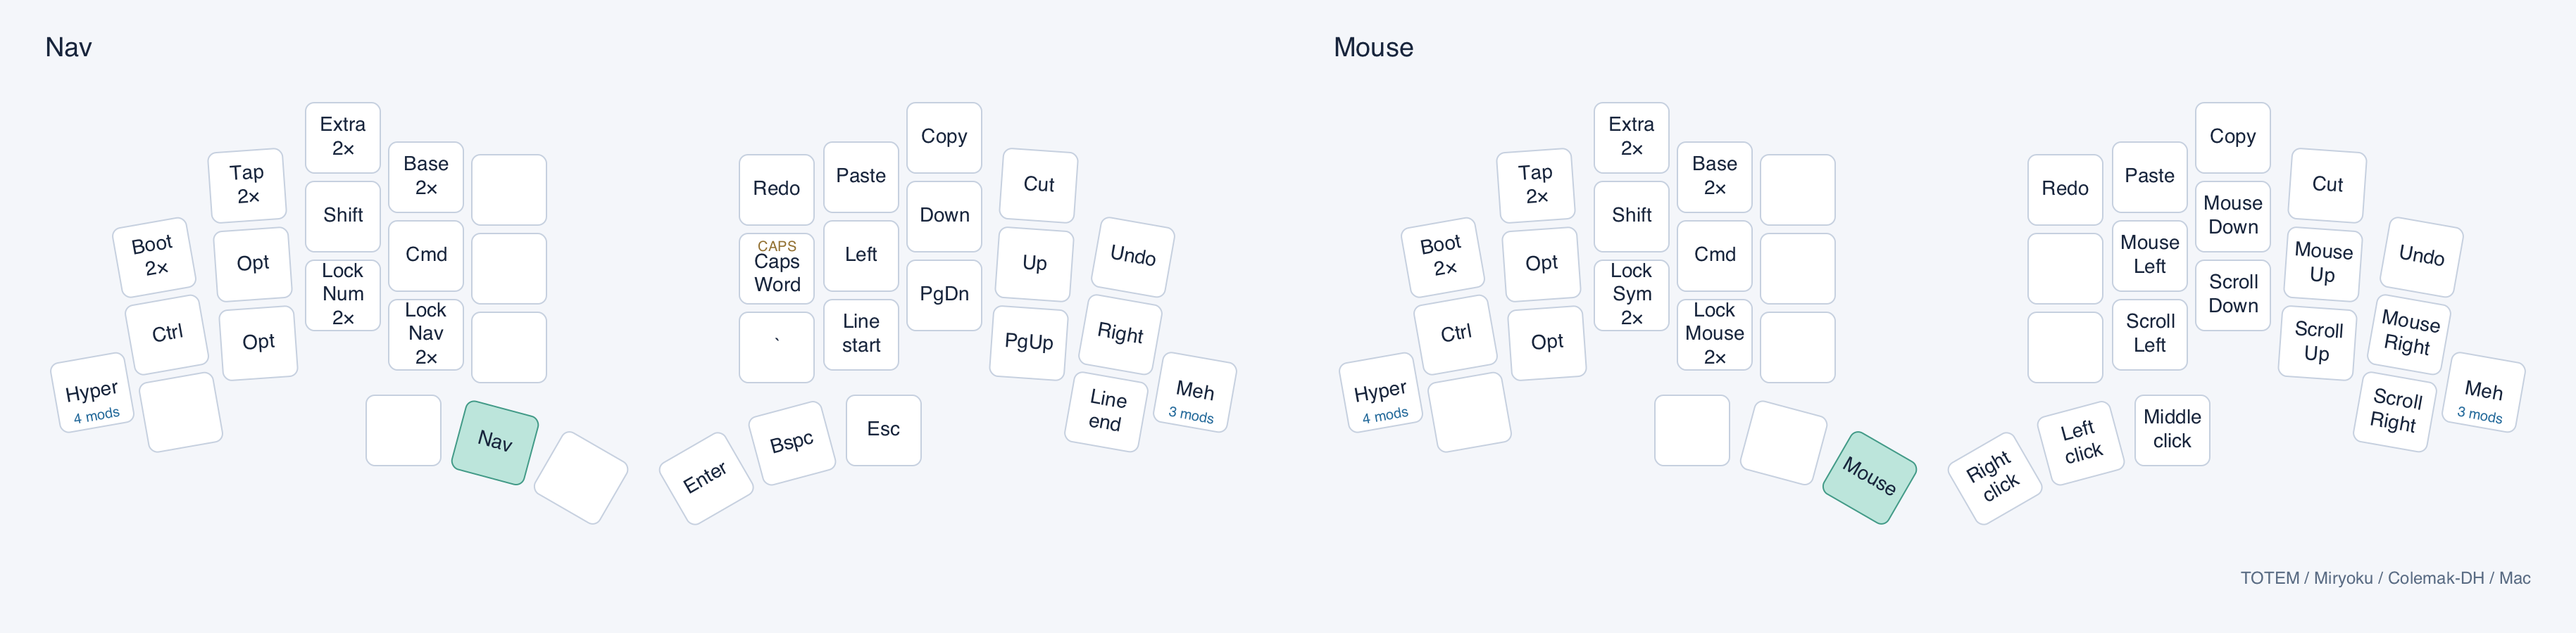
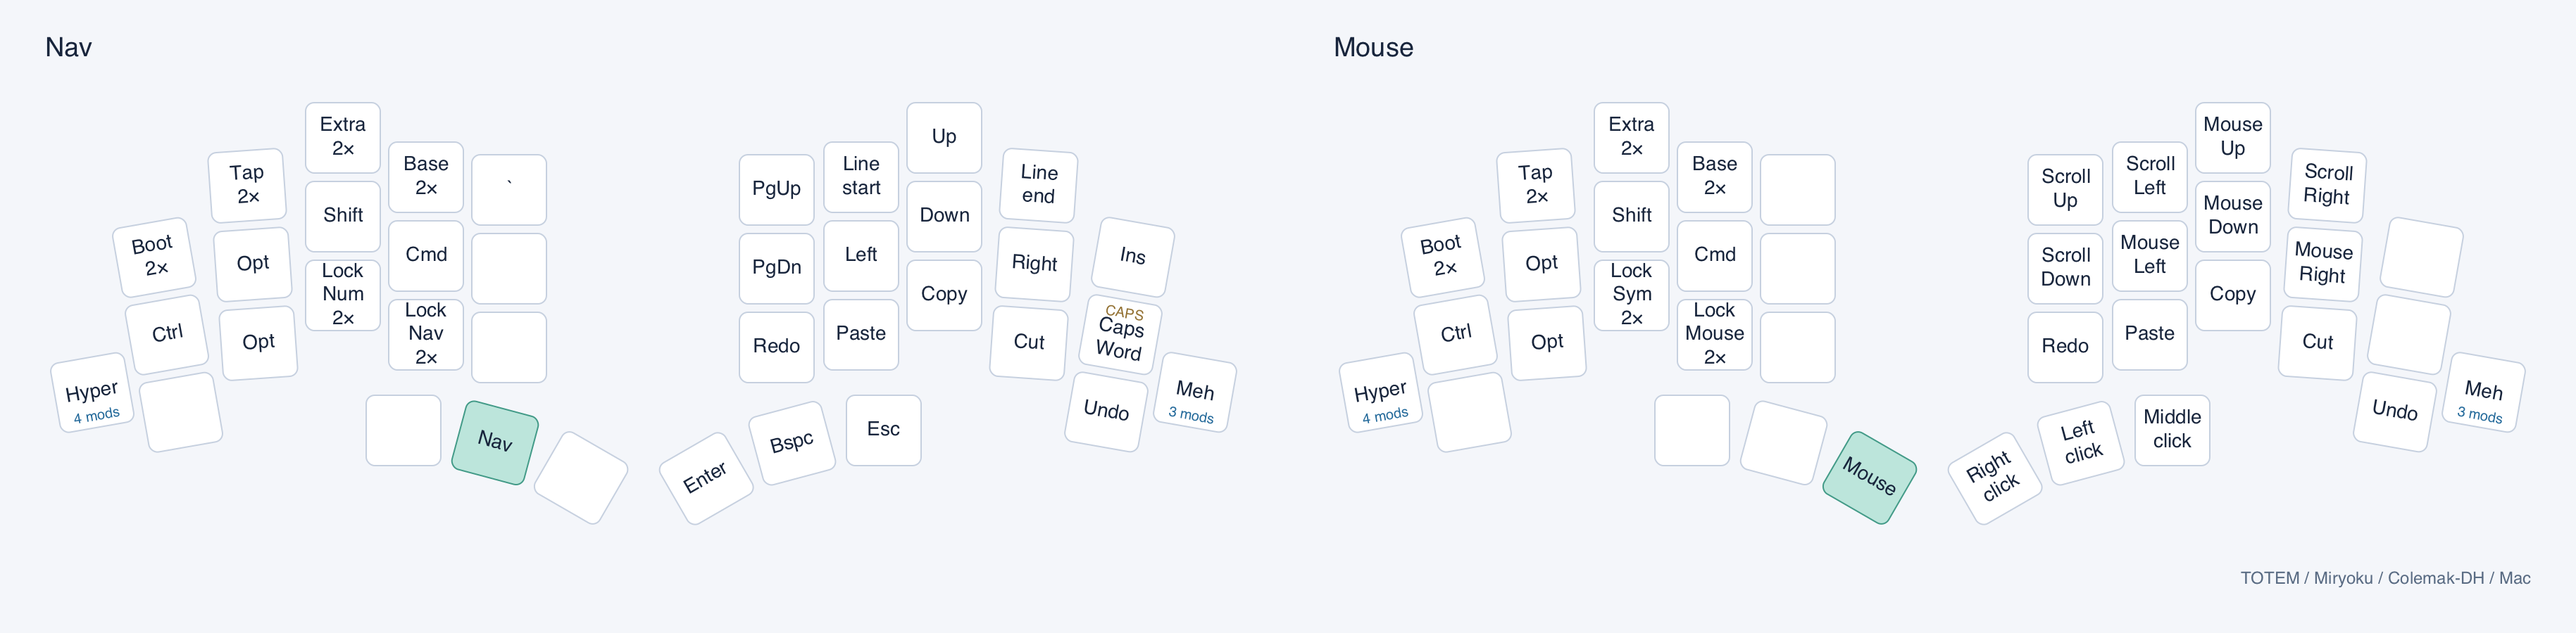
Use inverted-T navigation layout

diff --git a/config/miryoku/custom_config.h b/config/miryoku/custom_config.h
@@ -1,5 +1,6 @@
 // Personal Miryoku Totem adjustments. Core ordering follows Miryoku.
 #define MIRYOKU_CLIPBOARD_MAC
+#define MIRYOKU_NAV_INVERTEDT
 #define MIRYOKU_KLUDGE_DOUBLETAPBOOT
 
 // Colemak-DH, with Ctrl / Option / Shift / Cmd from outside to inside.
@@ -22,21 +23,24 @@ U_NP, U_NP, U_LT(U_MEDIA,ESC), U_LT(U_NAV,SPACE), U_LT(U_MOUSE,TAB), U_LT(U_SYM,
 &kp Z, &kp X, &kp C, &kp D, &kp V, &kp K, &kp H, &kp COMMA, &kp DOT, &kp SLASH, \
 U_NP, U_NP, &kp ESC, &kp SPACE, &kp TAB, &kp RET, &kp BSPC, &kp ESC, U_NP, U_NP
 
+// Inverted-T, with Page Up/Down on the inner index column instead of pinky.
+// Keep the existing Mac line navigation and a Nav-layer backtick.
 #define MIRYOKU_LAYER_NAV \
-U_BOOT, &u_to_U_TAP, &u_to_U_EXTRA, &u_to_U_BASE, U_NA, U_RDO, U_PST, U_CPY, U_CUT, U_UND, \
-&kp LCTRL, &kp LALT, &kp LSHFT, &kp LGUI, U_NA, &u_caps_word, &kp LEFT, &kp DOWN, &kp UP, &kp RIGHT, \
-U_NA, &kp RALT, &u_to_U_NUM, &u_to_U_NAV, U_NA, &kp GRAVE, &kp LG(LEFT), &kp PG_DN, &kp PG_UP, &kp LG(RIGHT), \
+U_BOOT, &u_to_U_TAP, &u_to_U_EXTRA, &u_to_U_BASE, &kp GRAVE, &kp PG_UP, &kp LG(LEFT), &kp UP, &kp LG(RIGHT), &kp INS, \
+&kp LCTRL, &kp LALT, &kp LSHFT, &kp LGUI, U_NA, &kp PG_DN, &kp LEFT, &kp DOWN, &kp RIGHT, &u_caps_word, \
+U_NA, &kp RALT, &u_to_U_NUM, &u_to_U_NAV, U_NA, U_RDO, U_PST, U_CPY, U_CUT, U_UND, \
 U_NP, U_NP, U_NA, U_NA, U_NA, &kp RET, &kp BSPC, &kp ESC, U_NP, U_NP
 
+// Match mouse motion and vertical scroll to the customized Nav positions.
 #define MIRYOKU_LAYER_MOUSE \
-U_BOOT, &u_to_U_TAP, &u_to_U_EXTRA, &u_to_U_BASE, U_NA, U_RDO, U_PST, U_CPY, U_CUT, U_UND, \
-&kp LCTRL, &kp LALT, &kp LSHFT, &kp LGUI, U_NA, U_NU, U_MS_L, U_MS_D, U_MS_U, U_MS_R, \
-U_NA, &kp RALT, &u_to_U_SYM, &u_to_U_MOUSE, U_NA, U_NU, U_WH_L, U_WH_D, U_WH_U, U_WH_R, \
+U_BOOT, &u_to_U_TAP, &u_to_U_EXTRA, &u_to_U_BASE, U_NA, U_WH_U, U_WH_L, U_MS_U, U_WH_R, U_NU, \
+&kp LCTRL, &kp LALT, &kp LSHFT, &kp LGUI, U_NA, U_WH_D, U_MS_L, U_MS_D, U_MS_R, U_NU, \
+U_NA, &kp RALT, &u_to_U_SYM, &u_to_U_MOUSE, U_NA, U_RDO, U_PST, U_CPY, U_CUT, U_UND, \
 U_NP, U_NP, U_NA, U_NA, U_NA, U_BTN2, U_BTN1, U_BTN3, U_NP, U_NP
 
 #define MIRYOKU_LAYER_MEDIA \
-U_BOOT, &u_to_U_TAP, &u_to_U_EXTRA, &u_to_U_BASE, U_NA, U_RGB_TOG, U_RGB_EFF, U_RGB_HUI, U_RGB_SAI, U_RGB_BRI, \
-&kp LCTRL, &kp LALT, &kp LSHFT, &kp LGUI, U_NA, U_EP_TOG, &kp C_PREV, &kp C_VOL_DN, &kp C_VOL_UP, &kp C_NEXT, \
+U_BOOT, &u_to_U_TAP, &u_to_U_EXTRA, &u_to_U_BASE, U_NA, U_RGB_TOG, U_RGB_EFF, &kp C_VOL_UP, U_RGB_HUI, U_RGB_SAI, \
+&kp LCTRL, &kp LALT, &kp LSHFT, &kp LGUI, U_NA, U_EP_TOG, &kp C_PREV, &kp C_VOL_DN, &kp C_NEXT, U_RGB_BRI, \
 U_NA, &kp RALT, &u_to_U_FUN, &u_to_U_MEDIA, U_NA, &u_out_tog, &u_bt_sel_0, &u_bt_sel_1, &u_bt_sel_2, &u_bt_sel_3, \
 U_NP, U_NP, U_NA, U_NA, U_NA, &kp C_STOP, &kp C_PP, &kp C_MUTE, U_NP, U_NP
 

diff --git a/draw/validate.py b/draw/validate.py
@@ -11,10 +11,13 @@ assert layers['Base'][:10] == ['Q', 'W', 'F', 'P', 'B', 'J', 'L', 'U', 'Y', "'"]
 assert [key['t'] if isinstance(key, dict) else key for key in layers['Base'][10:20]] == list('ARSTGMNEIO')
 assert [key['t'] if isinstance(key, dict) else key for key in layers['Base'][21:31]] == ['Z', 'X', 'C', 'D', 'V', 'K', 'H', ',', '.', '/']
 assert [combo['p'] for combo in data['combos']] == [[2, 3], [1, 2, 3]]
-assert layers['Nav'][18] == 'Up' and layers['Nav'][29] == 'PgUp'
-assert layers['Mouse'][18] == 'Mouse Up' and layers['Mouse'][29] == 'Scroll Up'
-assert layers['Nav'][5] == layers['Mouse'][5] == 'Redo'
-assert layers['Nav'][9] == layers['Mouse'][9] == 'Undo'
+assert layers['Nav'][5:10] == ['PgUp', 'Line start', 'Up', 'Line end', 'Ins']
+assert layers['Nav'][15:19] == ['PgDn', 'Left', 'Down', 'Right']
+assert layers['Nav'][19]['t'] == 'Caps Word'
+assert layers['Nav'][4] == '`'
+assert layers['Mouse'][5:9] == ['Scroll Up', 'Scroll Left', 'Mouse Up', 'Scroll Right']
+assert layers['Mouse'][15:19] == ['Scroll Down', 'Mouse Left', 'Mouse Down', 'Mouse Right']
+assert layers['Nav'][26:31] == layers['Mouse'][26:31] == ['Redo', 'Paste', 'Copy', 'Cut', 'Undo']
 assert layers['Base'][36]['t'] == 'Bspc' and layers['Base'][37]['t'] == 'Esc'
 assert layers['Fun'][4] == '`' and layers['Fun'][14] == 'Fence'
 print('PASS: layer sizes, navigation/mouse alignment, clipboard, Backspace and custom slots')

diff --git a/MIRYOKU.md b/MIRYOKU.md
@@ -34,10 +34,20 @@ In the default stock Miryoku, the right outer tap is Delete; it is Escape here. 
 
 ## Coherent layer relationships
 
-- **Nav and Mouse:** right-hand movement uses the same positions. The row below moves by page or scrolls in the same direction. Clipboard keys, including Undo and Redo, occupy matching positions on both layers. Mouse buttons are the right thumbs while Mouse is active.
+- **Nav and Mouse:** right-hand arrows and pointer movement use the same inverted-T positions. Page Up/Down are on the inner index column; vertical scrolling uses those same positions on Mouse. Clipboard keys, including Undo and Redo, occupy the right-hand bottom row on both layers. Mouse buttons are the right thumbs while Mouse is active. Media also follows the Miryoku Inverted-T arrangement.
 - **Num and Fun:** F7–F9, F4–F6 and F1–F3 follow the same positions as 7–9, 4–6 and 1–3.
 - **Sym:** many symbols are in the positions associated with their shifted U.S. number keys, with parentheses and underscore on the left thumbs.
 - **Mac clipboard:** Undo Cmd+Z, Redo Cmd+Shift+Z, Cut Cmd+X, Copy Cmd+C and Paste Cmd+V. Nav line-start/line-end keys send Cmd+Left/Right. Behavior can differ in terminal programs and individual applications.
+
+On Nav, the right-hand keys are arranged as follows, from the inner index column toward the pinky:
+
+```text
+PgUp   Line start   Up     Line end   Insert
+PgDn   Left         Down   Right      Caps Word
+Redo   Paste        Copy   Cut        Undo
+```
+
+This follows Miryoku Inverted-T, except that Page Up/Down exchange places with Insert and Caps Word. Caps Word capitalizes identifiers; it is not a Caps Lock toggle. Line start/end retain this Mac configuration's Cmd+Left/Right shortcuts. `MIRYOKU_NAV_INVERTEDT` records the selected variant; the custom layer definitions implement these preferences and the matching mouse alignment.
 
 Holding the right Backspace thumb gives the Num layer. To lock Num for repeated input, hold Nav (left Space) and double-tap the left bottom-row middle position, labelled `Lock Num 2×` in the diagram; this invokes Miryoku's `to` layer behavior. To leave a locked layer, use its `Base 2×` action. Locking is not automatic Num Word; test cancellation before relying on it.
 
@@ -45,8 +55,8 @@ Holding the right Backspace thumb gives the Num layer. To lock Num for repeated 
 
 - **F+P:** backtick on Base. Hold Cmd and use the chord for Cmd+backtick. The keys must arrive within 50 ms.
 - **W+F+P:** Raycast fence on Base, also 50 ms. It overlaps F+P; test recognition and timing.
-- **Nav:** hold left Space, then press the right inner bottom key (K position) for backtick.
-- **Fun:** hold the right outer thumb; the left inner index top key is backtick, the matching home key invokes the Raycast fence, and the bottom key is empty. These replace Print Screen, Scroll Lock and Pause/Break. Nav Insert was replaced with backtick.
+- **Nav:** hold left Space, then press the left inner index top key (B position) for backtick.
+- **Fun:** hold the right outer thumb; the left inner index top key is backtick, the matching home key invokes the Raycast fence, and the bottom key is empty. These replace Print Screen, Scroll Lock and Pause/Break. Insert is on the Nav right pinky top key.
 
 The fence behavior types the Raycast trigger `;;fence`; it does **not** send Enter. Import `raycast-code-fence.json` using Raycast's Import Snippets action. Expansion and multiline insertion depend on Raycast and the host application; test in a safe unsent field in each desktop/browser and terminal workflow. Without an active Raycast snippet the trigger text remains literal.
 

diff --git a/VALIDATION.md b/VALIDATION.md
@@ -1,10 +1,10 @@
 # Validation
 
-Validated locally on 11 November 2026 against Miryoku ZMK source `559aa4beae75cb3206ab411b7da2adb9665c6896`, ZMK `4dd95d7840eb3d5a3f59bb29fbf1ab054715ef85` and Zephyr `10ba6d0cb38bc3d258775d27982f707599320085`.
+Validated locally on 16 November 2026 against Miryoku ZMK source `559aa4beae75cb3206ab411b7da2adb9665c6896`, ZMK `4dd95d7840eb3d5a3f59bb29fbf1ab054715ef85` and Zephyr `10ba6d0cb38bc3d258775d27982f707599320085`.
 
 - Both wireless XIAO nRF52840 Totem halves compiled and linked locally.
 - After reorganizing this repository, both halves were built again with the configuration copied to a separate directory, matching the important file-placement behavior of the planned GitHub workflow. The workflow itself has not yet run on GitHub.
-- Six ZMK keyboard simulator scenarios passed against the Colemak-DH version: F+P backtick, Cmd+backtick, W+F+P typing `;;fence` with no Enter, thumb Backspace, Nav Page Up and Mac Undo. Mouse Up and left click were also simulated on the earlier Colemak-DH version, using the same Mouse layer: Mouse Up produced negative vertical pointer movement and left click produced both press and release reports.
+- Nine ZMK keyboard simulator scenarios passed with the customized Inverted-T layout: F+P backtick, Cmd+backtick, W+F+P typing `;;fence` with no Enter, thumb Backspace, Nav Page Up, Page Down, Up, Mac Undo and Mac Copy. A separate simulation of the new Mouse Up position produced negative vertical pointer movement. The click check was run before the Inverted-T change; the current mouse position mappings are also checked by `draw/validate.py`.
 - keymap-drawer parsed 38 positions for each layer; `draw/validate.py` checks the visual alignment, selected Mac clipboard bindings, Backspace and replaced keys.
 
 The user confirmed Seeed Studio XIAO BLE/nRF52840 controllers. Not verified: the actual purchased Totem+ matrix, pin wiring, bootloader, physical keycaps, Bluetooth pairing, macOS pointer feel, timing, Homerow, Raycast snippet expansion, or GitHub Actions. The mouse-up and click log checks were inspected manually; the keyboard HID regression scenarios are preserved in `tests/`. Simulation cannot prove physical comfort or reliability.
